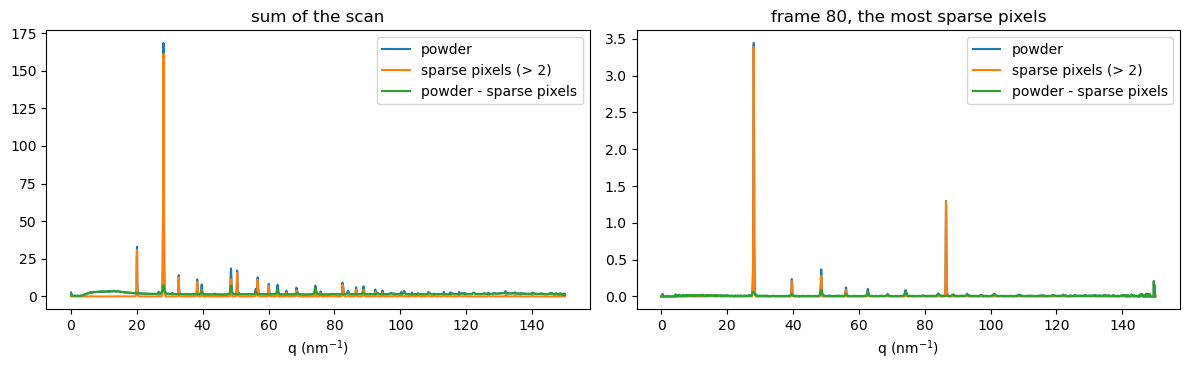
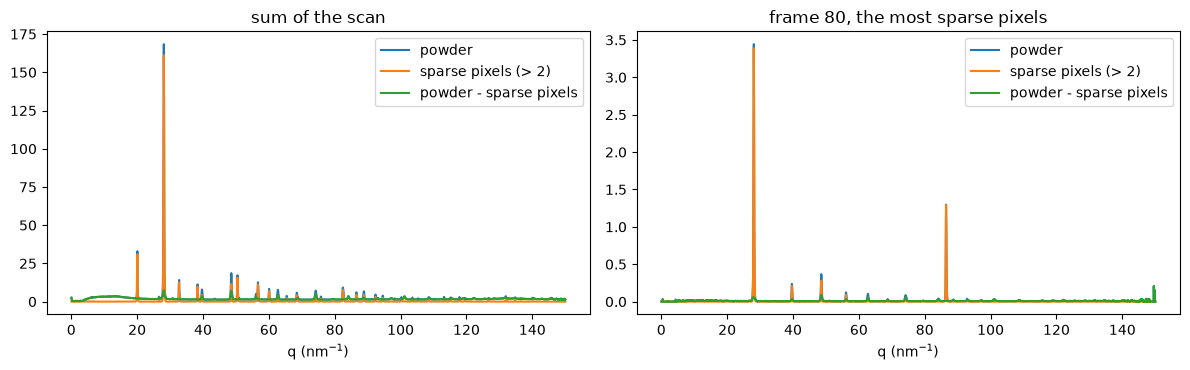
real-data pages: regenerate ex13 for 0.0.22a3
docs/real/ex13_peaks_out_of_powder was generated from 0.0.22a1; ex13 calls the
integer dots that changed in 0.0.22a3.  Re-run tools/real_data_pages.py (canonical
'module load jupyter-slurm' env, BSLZ4_TO_SPARSE_PATH=<dir holding the built
bslz4_to_sparse>) and commit the page: footer now 0.0.22a3 (sources sha256
fe6b3c32d2a2), kernel python 3.12.9 -> 3.12.15; outputs unchanged.

diff --git a/docs/real/ex13_peaks_out_of_powder.md b/docs/real/ex13_peaks_out_of_powder.md
@@ -144,4 +144,4 @@ plt.show()
 
 ![figure 1](ex13_peaks_out_of_powder_files/fig1.png)
 
-<small>Generated by `tools/real_data_pages.py` from bslz4_to_sparse 0.0.22a1 (git `v0.0.21a1-80-geae197c`, sources sha256 `5a0108f1b0c2`).</small>
+<small>Generated by `tools/real_data_pages.py` from bslz4_to_sparse 0.0.22a3 (git `v0.0.22.a3-3-ga4eaaea`, sources sha256 `fe6b3c32d2a2`).</small>
